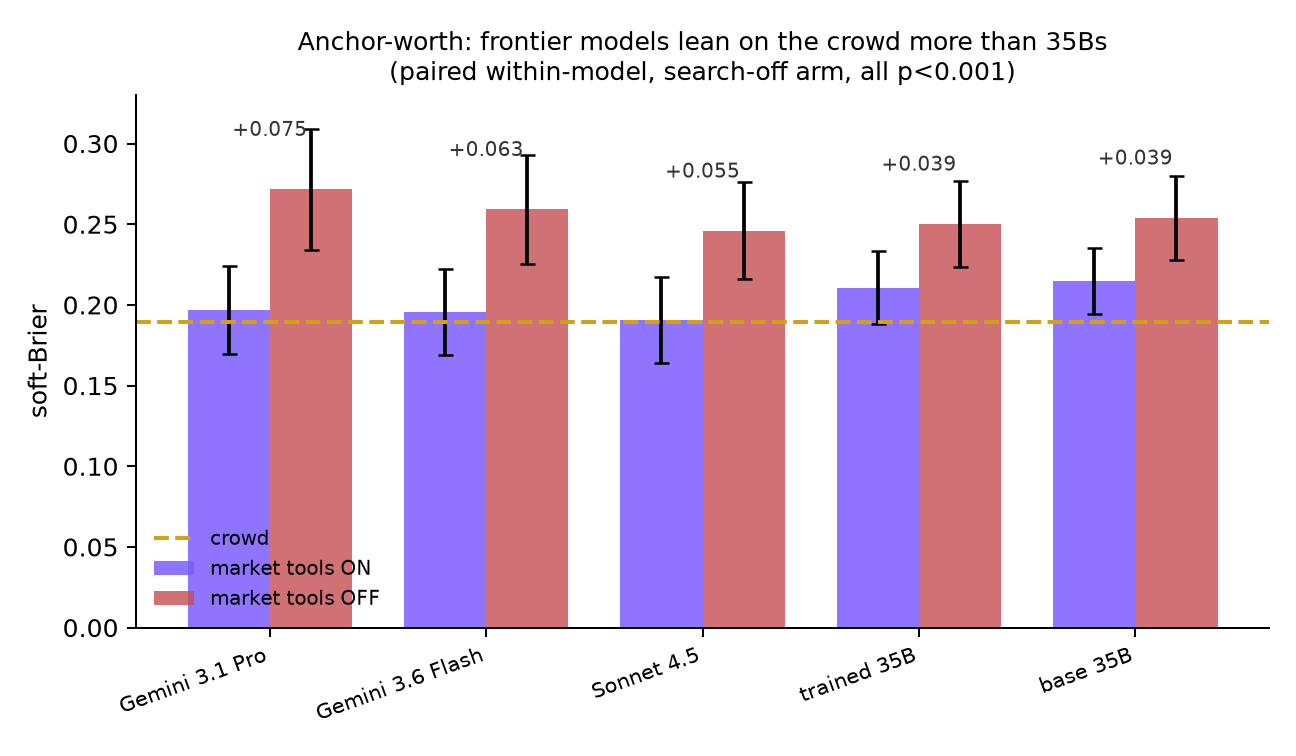
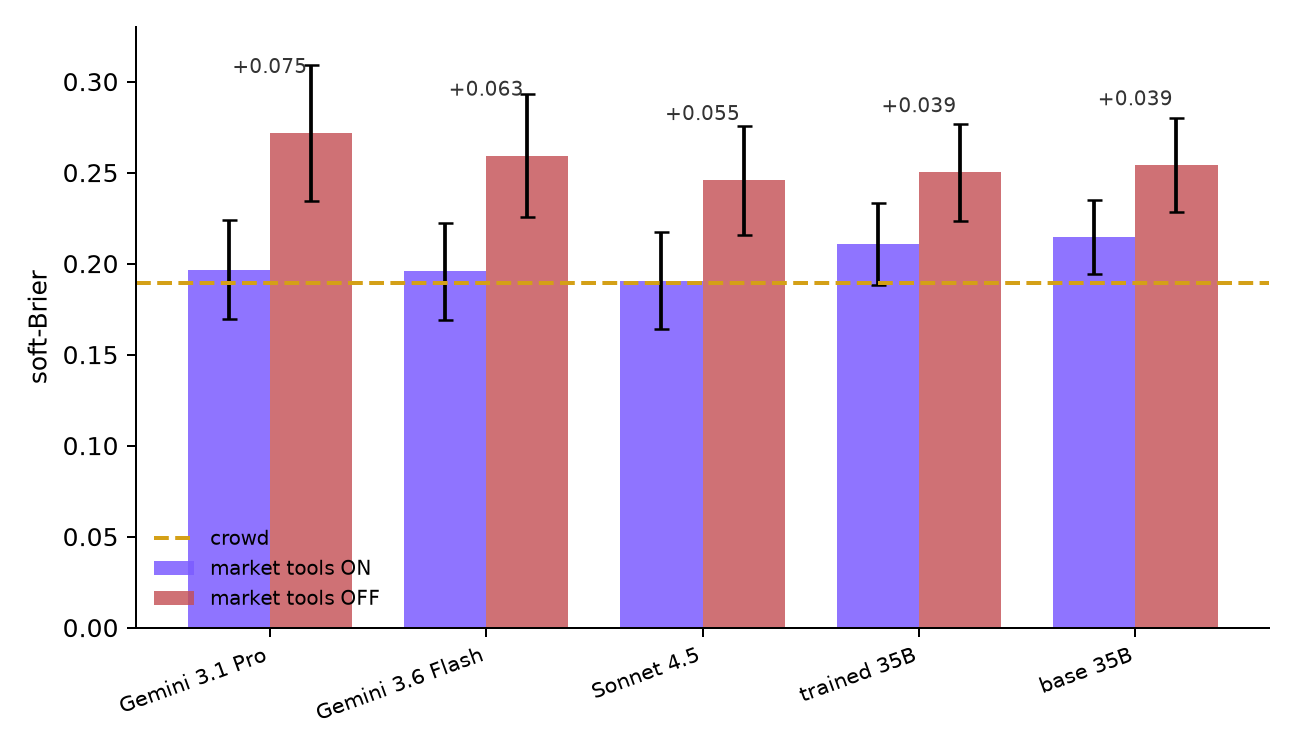
Paper figures: corrected uncertain-subset cells (v4 policy, search-on frontier arm), title-less anchor figure, reproducible figure script.
- f10: subset bars recomputed on the headline v4 policy and the
  search-on/market-off frontier evals (trained 0.274, Pro 0.316);
  the previous values mixed the v3 run and Pro's no-tools arm.
- f5: in-image title removed (make_figures.py updated).
- f12/f14: paper versions (no panel titles, deltas on both panels;
  ECE-only variant added).
- scripts/make_paper_figures.py regenerates the paper figures with
  cell provenance documented.
- RESULTS.md: subset paragraph restated with the corrected cells;
  stale f11 figure dropped; search economy 3.8 -> 2.25.
- .gitignore: results/pdfs/.

Claude-Session: https://claude.ai/code/session_012yEWTZB6gEfC6gbQ4Q8aV5

diff --git a/scripts/make_paper_figures.py b/scripts/make_paper_figures.py
@@ -1,0 +1,152 @@
+"""Regenerate the figures used in the paper (results/figures/f10, f12, f14*).
+
+The values below are the headline cells reported in results/RESULTS.md and
+are derived from the archived per-rollout records in results/:
+
+  evidence-based full set (n=265, soft-Brier, 0.5 imputed for non-answers):
+    trained Qwen3.5-35B-A3B  v4 endpoint, pooled 2 rollouts/question
+                             (v4_continue_webhook.jsonl.gz)          0.254
+    Claude Opus 4.5          opus45_searchon_marketoff_eval.jsonl     0.256
+    Claude Sonnet 4.5        sonnet45_searchon_marketoff_eval.jsonl   0.273
+    Gemini 3.1 Pro           gemini31pro_searchon_marketoff_eval.jsonl 0.278
+    Gemini 3.6 Flash         gemini36flash_searchon_marketoff_eval.jsonl 0.286
+  uncertain subset (price_at_cutoff in [0.30, 0.70], n=104), same files:
+    0.274 / 0.281 / 0.295 / 0.316 / 0.319 (crowd 0.232)
+  ECE (submitted-only, 10 equal-mass bins) and submission rate, same files.
+  base vs trained ECE 0.185 -> 0.128 and coverage 79% -> 99.6% are the
+  step-0 and endpoint test-market-off evals of the v4 run
+  (v4_main_platform_metrics.json, v4_continue_platform_metrics.json).
+
+Run from the repository root:  python scripts/make_paper_figures.py
+"""
+import matplotlib
+
+matplotlib.use("Agg")
+import matplotlib.pyplot as plt
+import numpy as np
+
+FIG = "results/figures"
+BLUE, ORANGE = "#4C72B0", "#DD8452"
+GREEN, GRAY = "#009B77", "#9a9a9a"
+
+
+def style(ax):
+    for sp in ("top", "right"):
+        ax.spines[sp].set_visible(False)
+    ax.set_axisbelow(True)
+    ax.yaxis.grid(True, alpha=0.22)
+
+
+# ----------------------------------------------- F10: evidence-based column
+models = ["Gemini\n3.6 Flash", "Gemini\n3.1 Pro", "Claude\nSonnet 4.5",
+          "Claude\nOpus 4.5", "Qwen3.5-35B\n(trained, ours)"]
+full_ = [0.286, 0.278, 0.273, 0.256, 0.254]
+unc = [0.319, 0.316, 0.295, 0.281, 0.274]
+x = np.arange(5)
+w = 0.38
+fig = plt.figure(figsize=(7.6, 3.3), dpi=200)
+gs = fig.add_gridspec(2, 1, height_ratios=[8, 1], hspace=0.08)
+axT = fig.add_subplot(gs[0])
+axB = fig.add_subplot(gs[1], sharex=axT)
+for ax in (axT, axB):
+    ax.bar(x - w / 2, full_, w, color=BLUE, label="full test set (n=265)")
+    ax.bar(x + w / 2, unc, w, color=ORANGE, label="uncertain subset (n=104)")
+axT.set_ylim(0.24, 0.34)
+axB.set_ylim(0, 0.013)
+for xi, v in zip(x, full_):
+    axT.text(xi - w / 2, v + 0.0025, f"{v:.3f}", ha="center", fontsize=8.2)
+for xi, v in zip(x, unc):
+    axT.text(xi + w / 2, v + 0.0025, f"{v:.3f}", ha="center", fontsize=8.2)
+axT.spines["bottom"].set_visible(False)
+axB.spines["top"].set_visible(False)
+axT.tick_params(bottom=False, labelbottom=False)
+axB.set_yticks([0])
+axB.set_yticklabels(["0"])
+axB.set_xticks(x)
+axB.set_xticklabels(models, fontsize=9)
+axB.get_xticklabels()[-1].set_fontweight("bold")
+d = 0.012
+axT.plot((-d, +d), (-d, +d), transform=axT.transAxes, color="k", clip_on=False, lw=1)
+axB.plot((-d, +d), (1 - 8 * d, 1 + 8 * d), transform=axB.transAxes, color="k",
+         clip_on=False, lw=1)
+axT.set_ylabel("soft-Brier (lower is better)")
+axT.legend(fontsize=8.5, loc="upper right", frameon=False)
+for a in (axT, axB):
+    style(a)
+plt.savefig(f"{FIG}/f10_evidence_based_column.png", bbox_inches="tight")
+plt.close()
+
+# ------------------------------------------ F14: ECE and submission rate
+models14 = ["Qwen3.5-35B\n(trained, ours)", "Claude\nOpus 4.5", "Claude\nSonnet 4.5",
+            "Gemini\n3.1 Pro", "Gemini\n3.6 Flash"]
+ece = [0.128, 0.136, 0.176, 0.215, 0.205]
+sub = [99.6, 99.6, 99.2, 94.0, 100.0]
+fig, axes = plt.subplots(1, 2, figsize=(8.6, 2.6), dpi=200)
+ax = axes[0]
+ax.bar(x, ece, 0.55, color=BLUE)
+for xi, v in zip(x, ece):
+    ax.text(xi, v + 0.005, f"{v:.3f}", ha="center", fontsize=8.2)
+ax.set_ylim(0, 0.24)
+ax.set_ylabel("ECE (lower is better)", fontsize=9.5)
+ax = axes[1]
+ax.bar(x, sub, 0.55, color=BLUE)
+for xi, v in zip(x, sub):
+    ax.text(xi, v + 2.5, f"{v:.1f}".rstrip("0").rstrip(".") + "%", ha="center", fontsize=8.2)
+ax.set_ylim(0, 112)
+ax.set_ylabel("submission rate (%)", fontsize=9.5)
+for ax in axes:
+    ax.set_xticks(x)
+    ax.set_xticklabels(models14, fontsize=7.8)
+    ax.get_xticklabels()[0].set_fontweight("bold")
+    style(ax)
+plt.tight_layout()
+plt.savefig(f"{FIG}/f14_ece_submit.png", bbox_inches="tight")
+plt.close()
+
+# ECE-only variant (descending, ours rightmost)
+models14b = ["Gemini\n3.1 Pro", "Gemini\n3.6 Flash", "Claude\nSonnet 4.5",
+             "Claude\nOpus 4.5", "Qwen3.5-35B\n(trained, ours)"]
+ece_b = [0.215, 0.205, 0.176, 0.136, 0.128]
+fig, ax = plt.subplots(figsize=(6.0, 2.0), dpi=200)
+ax.bar(x, ece_b, 0.55, color=BLUE)
+for xi, v in zip(x, ece_b):
+    ax.text(xi, v + 0.006, f"{v:.3f}", ha="center", fontsize=9)
+ax.set_ylim(0, 0.245)
+ax.set_ylabel("ECE (lower is better)", fontsize=9)
+ax.set_xticks(x)
+ax.set_xticklabels(models14b, fontsize=8.5)
+ax.get_xticklabels()[-1].set_fontweight("bold")
+style(ax)
+plt.tight_layout()
+plt.savefig(f"{FIG}/f14_ece_only.png", bbox_inches="tight")
+plt.close()
+
+# --------------------------------------- F12: base vs trained behavior
+fig, axes = plt.subplots(1, 2, figsize=(7.4, 2.3), dpi=200)
+ax = axes[0]
+vals = [0.185, 0.128]
+ax.bar([0, 1], vals, color=[GRAY, GREEN], width=0.55)
+for x0, v in zip([0, 1], vals):
+    ax.text(x0, v + 0.004, f"{v:.3f}", ha="center", fontsize=10)
+ax.text(0.5, 0.185, "$-31\\%$", ha="center", fontsize=11, color=GREEN, fontweight="bold")
+ax.set_xticks([0, 1])
+ax.set_xticklabels(["base", "trained"], fontsize=10)
+ax.set_ylim(0, 0.212)
+ax.set_ylabel("ECE (lower is better)")
+ax = axes[1]
+vals = [79, 99.6]
+ax.bar([0, 1], vals, color=[GRAY, GREEN], width=0.55)
+for x0, v, lbl in zip([0, 1], vals, ["79%", "99.6%"]):
+    ax.text(x0, v + 2, lbl, ha="center", fontsize=10)
+ax.text(0.5, 108, "$+26\\%$", ha="center", fontsize=11, color=GREEN, fontweight="bold")
+ax.set_xticks([0, 1])
+ax.set_xticklabels(["base", "trained"], fontsize=10)
+ax.set_ylim(0, 119)
+ax.set_ylabel("questions answered (%)")
+for ax in axes:
+    style(ax)
+plt.tight_layout()
+plt.savefig(f"{FIG}/f12_rlvr_behavioral_gains.png", bbox_inches="tight")
+plt.close()
+
+print("wrote f10_evidence_based_column, f14_ece_submit, f14_ece_only, f12_rlvr_behavioral_gains")

diff --git a/scripts/make_figures.py b/scripts/make_figures.py
@@ -232,9 +232,6 @@ ax.set_xticks(range(len(pairs)))
 ax.set_xticklabels([n for n, *_ in pairs], rotation=20, ha="right", fontsize=8.5)
 ax.set_ylabel("soft-Brier")
 ax.set_ylim(0, 0.33)
-ax.set_title(
-    "Anchor-worth: frontier models lean on the crowd more than 35Bs\n"
-    "(paired within-model, search-off arm, all p<0.001)", fontsize=10)
 ax.legend(frameon=False, fontsize=8)
 style(ax)
 plt.tight_layout()

diff --git a/results/RESULTS.md b/results/RESULTS.md
@@ -297,17 +297,15 @@ sampling noise and should be read as tiers, not rankings.
 
 ### Where forecasting is hardest, the trained model pulls ahead
 
-![Uncertain-question divergence](figures/f11_uncertain_divergence.png)
-
 Following Turtel et al.'s observation that forecasting skill
 concentrates where the market itself is uncertain, we pre-declared the
 subset with cutoff price in [0.30, 0.70] — questions the crowd genuinely
 hadn't decided (n=104). Here the trained model **beats every frontier
-model's point estimate** in the evidence-based setting: trained 0.276,
-then Opus 0.281, Sonnet ~0.294, Flash ~0.320, Gemini Pro 0.336 (crowd
-0.232). The paired per-question gaps amplify 3–16× relative to the full
-set: +0.059 over Pro, +0.045 over Flash,
-+0.016 over Sonnet. On easy questions everyone ties; on genuinely
+model's point estimate** in the evidence-based setting: trained 0.274,
+then Opus 0.281, Sonnet 0.295, Gemini Pro 0.316, Flash 0.319 (crowd
+0.232). Every paired per-question gap is larger than on the full set:
++0.042 over Pro, +0.046 over Flash, +0.021 over Sonnet, +0.008 over Opus
+(vs +0.001 on the full set). On easy questions everyone ties; on genuinely
 contested ones, the cheap trained model and Opus stand apart from the
 rest of the frontier. The crowd remains ahead of everyone even here;
 we grade the subset analysis exploratory — theory-motivated, on a
@@ -470,7 +468,7 @@ the trained policy the only one unharmed by switching live search on.
    pre-registered). Giving the anchor-less policy working retrieval
    partially reverses the herding: the search-only run's median
    prediction moves to 0.40 with extremes recovering to 12%, and the
-   policy learns search *economy* during training (3.4 → 2.25
+   policy learns search *economy* during training (3.8 → 2.25
    searches per rollout) — search de-herds, but the extra dispersion
    buys no score. Anchoring-plus-moderation *is*
    calibration — which explains why training reliably delivered the
